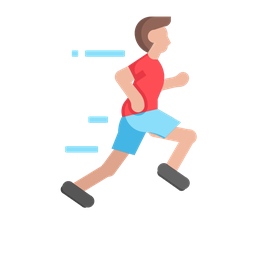
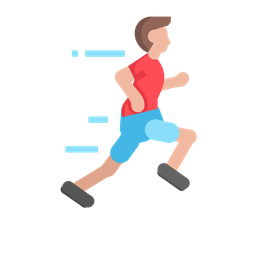
Acciones: la pantaloneta se mueve con las piernas
Claude-Session: https://claude.ai/code/session_01XPBFeG2PZmszSkrWwceepV

Changed region(s): [[0.4688, 0.4062, 0.7188, 0.5938], [0.4062, 0.4688, 0.5312, 0.6562]]

diff --git a/README.md b/README.md
@@ -115,7 +115,7 @@ la cámara frontal graba a los participantes para revivir las risas.
   echa salsa al taco en zigzag; quieto, el taco queda con su salsa) y
   Profesiones (un bombero que parpadea mientras a su lado se prende una
   sirena que lo alumbra), Acciones (un muñeco que corre: las piernas siguen un
-  ciclo de carrera, mece el brazo, rebota y las líneas de velocidad pasan
+  ciclo de carrera con la pantaloneta, mece el brazo, rebota y las líneas de velocidad pasan
   hacia atrás) y Lugares (el mapa
   solo y el pin cae una sola vez desde arriba, se aplasta, rebota y queda
   clavado).
